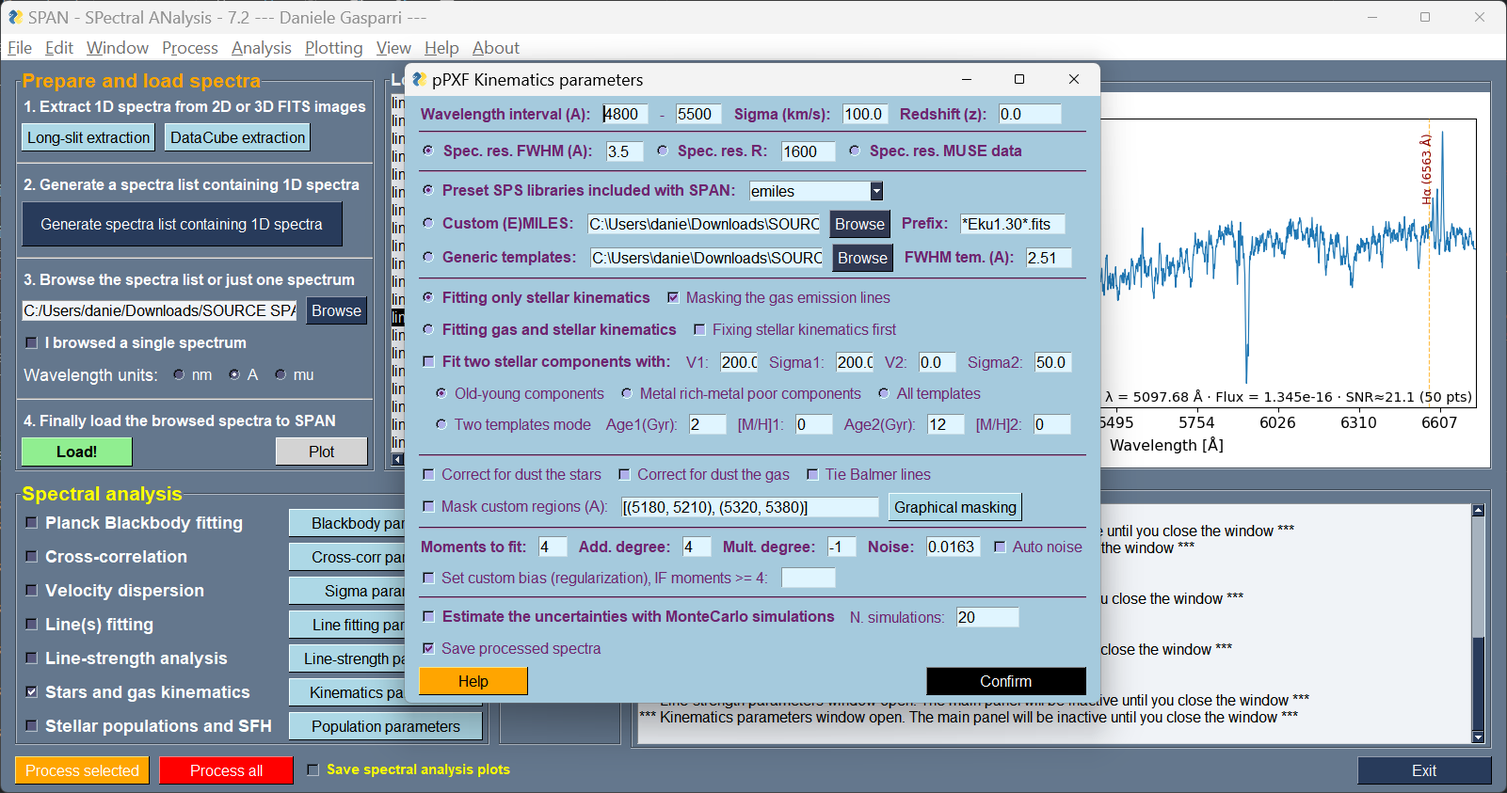
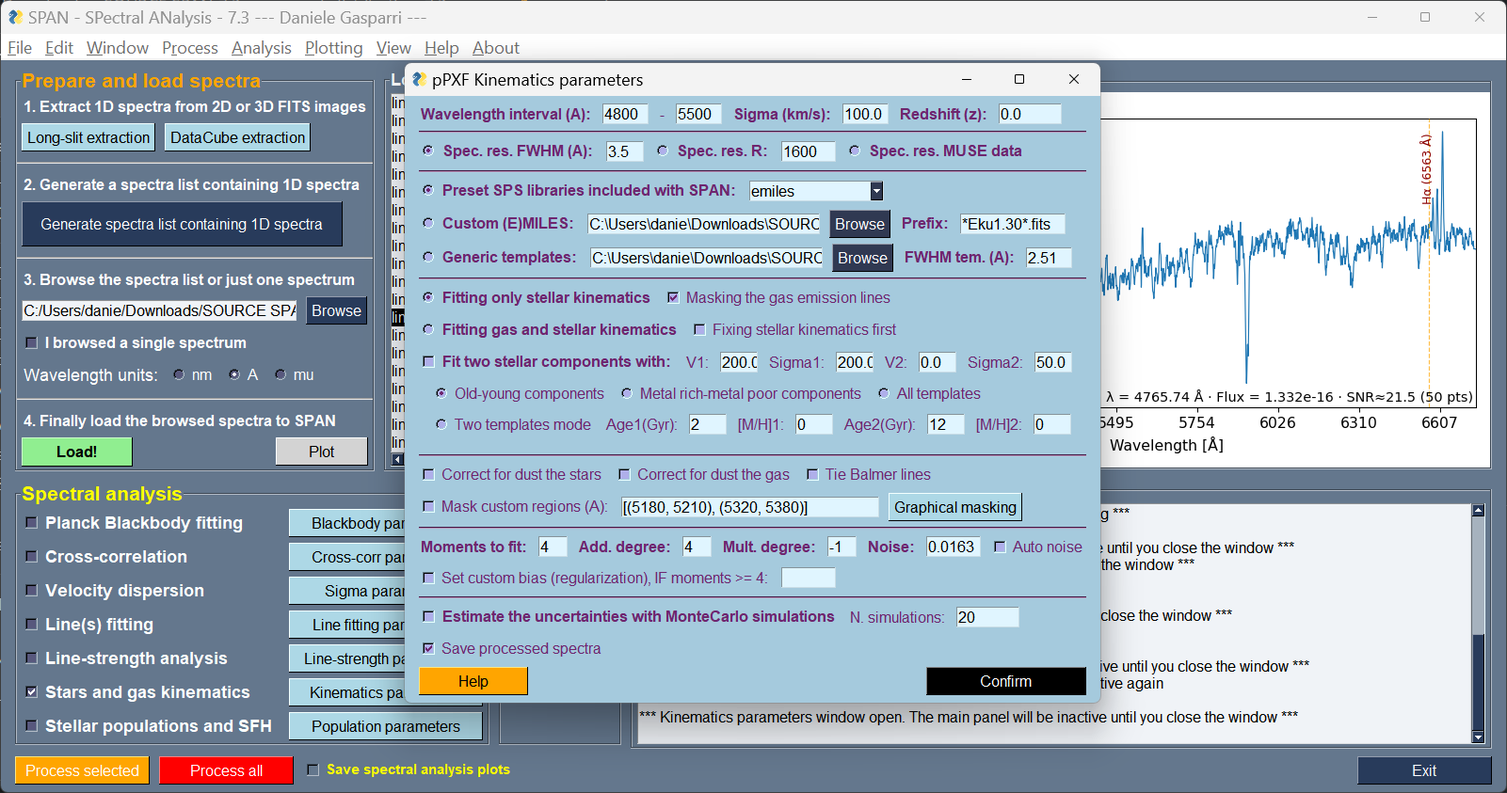
Add files via upload

diff --git a/docs/stellar_populations_and_SFH.md b/docs/stellar_populations_and_SFH.md
@@ -1,7 +1,7 @@
-SPAN: SPectral ANalysis software V7.2
-Daniele Gasparri, November 2025
+SPAN: SPectral ANalysis software V7.3
+Daniele Gasparri, December 2025
 
-# Stellar populations and SFH #
+# Stellar populations and SFH
 
 ![Stellar populations](img/stellar_populations.png)
 *Stellar populations and SFH parameters*
@@ -21,7 +21,7 @@ The full spectral fitting method requires spectra with an acceptable Signal-to-N
 The default settings offer a good starting point for most local galaxy spectra and common spectrographs. To perform an initial fit, simply enter the redshift of the spectrum. For fine-tuning, adjust the parameters based on your specific dataset.
 
 
-## Parameter Overview ##
+## Parameter Overview
 The parameters are grouped into six sections, separated by horizontal dividers. Below is a brief description of each:
 
 
@@ -53,6 +53,8 @@ Recommended workflow for finding the best parameters:
 - If uncertain, use "Auto Noise" option, which performs an initial unregularized fit to determine the optimal noise level.
 - For small spectral ranges (<1000 A) and limited templates, "Auto Noise and Regul. error" can be used to optimize both parameters. A good starting point for S/N = 50 is setting "Fraction of Dchi2 to reach" to 0.20.
 
+**IMPORTANT:** The regularization factor here is expressed as "Regul. error", following the convention of pPXF, where "Regul. error" = 1/regularization. Example: If you want to apply a regularization of 10, then "Regul. error" = 1/10 = 0.1. **TIP:** With good S/N spectra (100) a "Regul. error" = 0.1 is usually a good choice, following what stated, for example, by @bittner2020.
+
 **Polynomial Adjustments**:  
 Additive Degree: Leave disabled (-1) for reliable results, since they may change the absorption line profiles.
 Multiplicative Degree: Adjust based on spectral range (about 1 degree per 100 A).
@@ -63,10 +65,10 @@ Example: For 4800-5500 A, set Mult. degree = 7.
 Choose the SSP model library for fitting:
 
 - E-MILES, Galaxev, FSPS (pPXF defaults, they are a subsample of the respective libraries).
-- X-shooter Spectral Library. A full sample in the optical range with Salpeter IMF and Parsec/Colibri isochrones. They have a resolving power of R = 10,000 and are better suited for medium to high resolutio galaxy spectra.
+- X-shooter Spectral Library. A full sample in the optical range with Salpeter IMF and Parsec/Colibri isochrones. They have a resolving power of R = 10,000 and are better suited for medium to high resolution galaxy spectra.
 - sMILES Library (Knowles et al., 2023). Full sample in the optical window with 4 alpha/Fe values and Salpeter IMF. They are useful to extract also the alpha/Fe values besides age and metallicity. 
 
-**Warning** If your spectra have much higher resolution than the templates, apply the "Degrade Resolution" task in the Spectra manipulation panel before fitting may improve the results.
+**TIP** If your spectra have much higher resolution than the templates, apply the "Degrade Resolution" task in the Spectra manipulation panel before fitting may improve the results.
 
 
 **Template Handling:**  
@@ -89,7 +91,7 @@ For highly star-forming galaxies, consider FSPS (Conroy et al., 2010) or other t
 - You can mask out the emission Lines. In this case, you should select the "Fitting without gas" mode (see Section 2).
 - Custom masking is available and can be added also to the automatic masking of the emission lines. There are two custom masking options available: 
     1. Manual masking, by inserting the wavelength interval(s) to be masked, separated by commas and parenthesis in the text box. If invalid values are inserted, SPAN will warn you.
-    2. Graphical masking mode, activated by pressing the "Graphical masking" button. In this mode, an interactive Matplotlib window will open displaying the spectrum selected. You can then mask custom portion directly on the spectrum by ctrl+left click and drag. You can deselect the masked region by ctrl+right click and drag. On touchscreen devices (i.e. Android systems), masking and unmasking modes are activated by a tap on the screen and the relative selection is done by tapping and dragging on the spectrum. When graphical masking in done, you can close the Matplotlib window and the text box on the left will update with the new ranges selected.
+    2. Graphical masking mode, activated by pressing the "Graphical masking" button. In this mode, an interactive Matplotlib window will open displaying the spectrum selected. You can then mask custom portion directly on the spectrum by ctrl+left click and drag. You can deselect the masked region by ctrl+right click and drag. On touchscreen devices (i.e. Android systems), masking and unmasking modes are activated by a tap on the screen and the relative selection is done by tapping and dragging on the spectrum. When graphical masking is done, you can close the Matplotlib window and the text box on the left will update with the new ranges selected.
 
 **Age and Metallicity Ranges:**  
 Limit the maximum template age and metallicity based on the galaxy's cosmic age. For high-redshift galaxies, reducing the upper age limit is strongly recommended. Example: we are analyzing a galaxy located at z = 1.20, corresponding to an epoch when the Universe was about 5 Gyr old. You can move the maximum age slider to 5 Gyr to consider only SSP younger than this value for the fit. 
@@ -105,13 +107,13 @@ You can select the model grids and interpolation mode in the same way as in the 
 If your spectra have a significantly different resolution compared to the SSP templates used in pPXF, it is recommended to activate the option "Convolve templates to galaxy resolution". This ensures a more accurate estimate of the velocity dispersion during the fit, which is required to properly correct the Lick/IDS indices for spectral broadening.
 
 
-## Final Notes ##
+## Final Notes
 By default, templates are V-band normalized (5070-5950 A), meaning age, metallicity, and SFH are V luminosity-weighted.
 Using pPXF's .flux attribute, SPAN derives mass-weighted results from the same fit.
 Best regularization differs for mass-weighted vs. luminosity-weighted results. If mass results are the priority, fine-tune the "Regul. error" accordingly.
 
 
-## Outputs ##
+## Outputs
 Every fit generates three plots both in the **"Process selected** and **Process all"** mode:
 
 - Fitted Spectrum

diff --git a/docs/stars_and_gas_kinematics.md b/docs/stars_and_gas_kinematics.md
@@ -1,7 +1,7 @@
-SPAN: SPectral ANalysis software V7.2
-Daniele Gasparri, November 2025
+SPAN: SPectral ANalysis software V7.3
+Daniele Gasparri, December 2025
 
-# Stars and gas kinematics #
+# Stars and gas kinematics
 
 ![Kinematics](img/kinematics.png)
 *Stars and gas kinematics parameters*
@@ -15,7 +15,7 @@ The default parameters in this window offer a solid starting point for typical g
 Fine-tuning the fit requires adjusting specific parameters. 
 
 
-## Parameter Overview ##
+## Parameter Overview
 The parameters are grouped into seven sections, separated by horizontal dividers. Below is a brief description of each:
 
 ### First Section: Basic Parameters
@@ -41,13 +41,13 @@ Here you can select the SSP Model Library to use for the fit. The available pre-
 	3. FSPS (subsample)
 	4. X-shooter Spectral Library (XSL) (complete sample with Salpeter IMF, better suited for higher resolution spectra, R = 10,000)  
 If your spectra have a higher resolution than the templates, you should degrade them to match the template resolution using the "Degrade Resolution" tool in the Spectra manipulation panel.
-You can use any kind of EMILES templates or generic ones. The generic templates should have the wavelength scale in linear units and Angstrom. WARNING: Two stellar component fit is not available with a generic template set option (see next section). 
+You can use any kind of EMILES templates or generic ones. The generic templates should have the wavelength scale in linear units and Angstrom. **WARNING:** Two stellar component fit is not available with a generic template set option (see next section). 
 
 
 ### Fourth Section: Which component to fit
 
-1. "Fitting only stellar kinematics": Considering only the stellar component. To prevent gas emission lines in the optical, the option "Mask emission lines is activated by default". If you are fitting the optical window and are absolutely sure to not have emission (usually in HBeta and HAlpha) you can disable this option. 
-2. "Gas and Stars Kinematics": Considers both stellar and gaseous emission lines. The gas components are divided into three families: Balmer lines, forbidden lines, other lines. SPAN will automatically fit all the components found in the spectral range given, using a modified version of the line emission template provided by pPXF and embedded in the "spectral_analysis.py" module in the "span_functions" folder. By default, stars and gas kinematics are calculated together with one fit. However, often is necessary to fix the stellar kinematics to perform a more accurate gas fit. The option "Fixing stellar kinematics first" will perform a first fit only for the stellar components and will use the kinematics moments derived to fix them in the subsequent fit for the gas component.
+1. "Fitting only stellar kinematics": Considering only the stellar component. To prevent gas emission lines in the optical, the option "Mask emission lines" is activated by default. If you are fitting the optical window and are absolutely sure to not have emission (usually in HBeta and HAlpha) you can disable this option. 
+2. "Gas and Stars Kinematics": Considers both stellar and gaseous emission lines. The gas components are divided into three families: Balmer lines, forbidden lines, other lines. SPAN will automatically fit all the components found in the spectral range given, using a modified version of the line emission template provided by pPXF and embedded in the "emission_lines.py" module in the "span_functions" folder. By default, stars and gas kinematics are calculated together with one fit. However, often is necessary to fix the stellar kinematics to perform a more accurate gas fit. The option "Fixing stellar kinematics first" will perform a first fit only for the stellar components and will use the kinematics moments derived to fix them in the subsequent fit for the gas component.
 3. Two stellar component fit option: Here you can also decide to fit two stellar components by activating the "Fit two stellar components with:" checkbox. This option is important only when you have kinematic decoupled stellar components (e.g. counter-rotating discs) with high S/N (> 50). It can be activated both with stellar and gas fit option, but gas will always be fitted with one kinematic component. Dust correction is not available (both for star and gas) in this mode. You need to insert an accurate velocity and velocity dispersion guess for both the stellar components. Beside this, you can select the templates to assign to each component, based on three options: 1) Old (> 5 Gyr) and young (< 5 Gyr) components, 2) Metal rich ([M/H] > 0 ) and metal poor ([M/H] < 0) components, 3) pick two templates with fixed age and metallicity. This option has been used in some works with counter-rotating discs as such Rubino et al., 2021.
 **WARNING:** Two component fit is available only by using the pre-set template set of SPAN and with any (E)MILES template. Not available for fully custom templates, since it needs to read the information about age and metallicity of the SSPs.
 **IMPORTANT1:** For the two component fit you must always insert a GOOD guess of the velocity and velocity dispersion of the two components you think to see in your spectrum. I stress out that a good guess is necessary (according to Cappellari et al., 2023 and the pPXF documentation), so first take an accurate look at your spectrum. Some tries may be necessary to find the correct parameters and it is better to perform these tests on spectral regions not affected by gas (e.g. the CaT lines) with the option "Fit only stellar kinematics".
@@ -86,7 +86,7 @@ This option is recommended if you do not fully trust the formal uncertainties co
 Particularly useful for galaxies with very low velocity dispersion compared to the instrumental resolution (velscale). This operation is very time consuming, so try to not insert too many simulations. 
 
 
-## Outputs ##
+## Outputs
 In **"Process selected"** mode, if the option "Save processed spectra" is activated, the task produces:
 
 - bestfit model spectrum

diff --git a/docs/lines_fitting.md b/docs/lines_fitting.md
@@ -1,0 +1,51 @@
+SPAN: SPectral ANalysis software V7.3
+Daniele Gasparri, December 2025
+
+# Line(s) Fitting
+
+Line(s) fitting in SPAN measures the properties of spectral lines (centers, widths, and integrated fluxes), plus uncertainties, within a user-defined wavelength window or for the Ca II Triplet (CaT). Typical uses include: gas emission-line fluxes and kinematics proxies, stellar absorption features (e.g., CaT strength/width), and quick checks of blended features in binned spectra.
+
+SPAN offers two modes:
+
+- CaT fitting (automatic): A specialized, fully automatic fit for the Ca II triplet around 8500-8700 A, using three gaussian functions and a line with slope for the continuum. In this case, your spectra must be rest-frame corrected and/or Doppler corrected.
+- Generic lines fitting (custom): A flexible fit for one or more lines in any window you choose, with robust continuum handling and optional bootstrap errors.
+
+Both modes print a compact summary in the terminal window and can optionally save a diagnostic plot per spectrum. 
+
+## CaT mode (automatic)
+This option selects a fixed CaT window (default 8440-8720 A), builds a robust local continuum (linear baseline) and normalizes the spectrum. Therefore, it fits three Gaussians (one per triplet line) with sensible constraints and automatic component ordering to the nominal air wavelengths (8498.02, 8542.09, 8662.14 A). For every CaT line, it estimates the integrated flux in physical units (scaled back from the normalized model), computes the equivalent width (EW) from the model (flux/baseline at the line center), and line widths (sigma in A and km/s). Finally, it runs a bootstrap (N=100) by default to return 1sigma errors on centers, widths, fluxes and EWs.
+
+### Outputs
+
+For each spectrum, you get: central wavelength (A), sigma (A), sigma (km/s), flux, EW, and their errors, for each triplet line. A compact per-spectrum summary is printed to the terminal window. In 'Process all' mode, and if 'Save spectra analysis plots' is enabled, a plot with spectrum, model and residuals is saved.
+
+The 'Process all' mode writes a CaT results file (space-separated .dat) with one row per line per spectrum (columns described below).
+
+
+## Custom line(s) fitting
+
+This mode is designed for any window and any reasonable line shape (Gaussian or Lorentzian), with automatic peak detection and multi-component fitting.
+
+**Parameters you can set:**  
+
+- Window: lambda min, lambda max: The wavelength interval (in A) to consider for line(s) detection and continuum level estimation.
+- Line type: auto | emission | absorption. Which kind of line(s) you are trying to identify and fit. The option 'auto' works fine, but for better results, please specify if the lines are in emission or absorption. 
+- Peak threshold (sigma): Minimum prominence (in units of the local noise estimate) for a peak to be considered. **Tip:** start with 10-15 for strong emission lines, 3-4 for absorption lines and high (50-100) S/N spectra.
+- Components: auto | fixed (+ N). Auto: detect peaks and fit up to Max components. Fixed: fit exactly N components (1-3) placed from detected/seed peaks.
+- Max components: If 'Components' is set to 'auto', this will tell SPAN the maximum number of lines to consider from the peak detection results, starting from the strongest. You can fit at maximum 5 lines. **Tip:** keep small (2-3) in narrow windows to avoid over-fitting.
+- Profile: gauss | lorentz. Choose the analytic form for components. **Tip:** Gaussians are standard for most nebular and stellar features; Lorentzians can help with extended wings (be cautious with interpretation).
+- Resolution (FWHM): The instrumental resolution of your spectra. This parameter is optional. If provided, SPAN will report intrinsic widths for Gaussians via sigma_intr^2 = sigma_obs^2 - sigma_inst^2 (truncated at zero). If omitted, only observed sigma are reported.
+- Continuum modelling: Auto (recommended): robust, slope-aware baseline selection per sign. Flat: constant continuum (use for very small windows). Linear: straight line (good default if continuum shows a mild slope). Binned percentile: rolling/large-scale background via percentile in bins (set bin width A and percentiles). Poly2: quadratic baseline (use sparingly; risk of absorbing broad lines).
+- Additional settings:
+    - Percentile (emission) (default 15): percentile used when expecting emission (lower is safer).
+    - Percentile (absorption) (default 85): percentile used for absorption (higher is safer).
+    - Bin width (default 50): bin width for the binned baseline.
+
+
+**Uncertainties**  
+
+Uncertainties estimation is optional and is carried with bootstrap simulations: enable and set N boot (e.g., 50-200). Returns errors on line centers, widths, and fluxes. If bootstrap is off, asymptotic (covariance-based) errors are returned when reliable.
+
+### Outputs
+
+For each fitted component, SPAN returns: Center (A) with error, width sigma (A) and sigma (km/s) with errors, Flux (integrated, physical units) with error, derived from the normalized model and local baseline scale.

diff --git a/docs/manual.md b/docs/manual.md
@@ -1,5 +1,5 @@
-SPAN: SPectral ANalysis software V7.2
-Daniele Gasparri, November 2025
+SPAN: SPectral ANalysis software V7.3
+Daniele Gasparri, December 2025
 
 # SPAN user manual
 
@@ -352,8 +352,8 @@ Here is a description of any task:
 
 3. **Spectral analysis:**  
    
-   - Blackbody fitting = performs a fit of the spectrum with Planck's blackbody equation and gives the temperature estimation. It works with any type of spectra but it performs better for stellar spectra, with wide (at least 5000 A) wavelength range;
-     b)  Cross-correlation = performs a cross-correlation of the spectra with any template. You can smooth the template to a velocity dispersion value in order to improve the cross-correlation and should identify a narrow region of the spectrum to be cross-correlated (tip: the Calcium triplet lines are the best features in the NIR);
+   - Blackbody fitting = performs a fit of the spectrum with Planck's blackbody equation and gives the color temperature estimation. It works with any type of spectra but it performs better for stellar spectra, with wide (at least 5000 A) wavelength range;
+   - Cross-correlation = performs a cross-correlation of the spectra with any template. You can smooth the template to a velocity dispersion value in order to improve the cross-correlation and should identify a narrow region of the spectrum to be cross-correlated (tip: the Calcium triplet lines are the best features in the NIR);
    - Velocity dispersion = performs the measurement of the velocity dispersion of the spectra with a rough (but fats) fit it with any template. Some pre-loaded bands in the visible and NIR are shown but you can input any band. The routine succeeds with strong features (the CaT is the best). It is a little rough but very fast and gives reasonably accurate results;
    - Line-strength analysis = performs the equivalent width measurement of the spectra, with a single index, with a list of indices or with the Lick/IDS system. The results are provided in Angstrom. MonteCarlo simulations are run for the uncertainties estimation. The calculation of the Lick/IDS indices can be personalized in many ways: you can correct for the emission, for the velocity dispersion and the recession velocity. You can also perform a linear interpolation with the SSP models of Thomas et al. 2010, Xshooter, MILES and sMILES to retrieve the age, metallicity and alpha-enhancement (not available for the Xshooter models) of the stellar populations via linear interpolation or with machine-learning pre-trained models (Gaussian Process Regression). From the "Line-strength parameters" window, it is possible also to perform the "Calculate velocity dispersion coefficients" task. This task broadens a sample of SSP spectra up to 400 km/s and calculates the deviation of the equivalent width of the indices contained in the index file provided. It works only by pressing the "Compute!" button and creates a text file with a third order polynomial curve that fits the behavior of the broadened index (or indices). The "Correct the line-strength for velocity dispersion" task performs the correction of the equivalent widths based on the coefficients estimated with the "Calculate velocity dispersion coefficients" task. It works only by pressing the "Correct!" button and requires the raw equivalent width measurements stored in the ASCII file generated previously, with the same indices in the same order to that considered in the "Calculate velocity dispersion coefficients". The output files of the "Line-strength analysis", "Calculate velocity dispersion coefficients" and "Velocity dispersion" are ready to be used for this task, if we are considering the same spectra and indices;
    - Line(s) fitting = performs the fitting of a line in the inserted wavelength range using a combination of a Gaussian function to model the spectral line and straight line for the continuum. If "CaT lines" is selected, the task will perform an automatic fitting of the Calcium Triplet lines, assuming they have been previously corrected for redshift and/or Doppler velocity;
@@ -408,5 +408,5 @@ Please, report any bug or comment to daniele.gasparri@gmail.com
 Have fun!
 
 Daniele Gasparri  
-2025-11-02  
+2025-12-02  
 Greetings from the Atacama desert!

diff --git a/docs/index.md b/docs/index.md
@@ -1,7 +1,7 @@
 # SPAN: Spectral Analysis Software
 
 📖 **Author:** Daniele Gasparri  
-📅 **Latest Release:** November 2025  
+📅 **Latest Release:** December 2025  
 
 ![PyPI Version](https://img.shields.io/pypi/v/span-gui)
 ![Python Version](https://img.shields.io/badge/python-3.10%2B-blue)
@@ -11,14 +11,15 @@
 **SPAN is a cross-platform Python GUI software for the extraction, manipulation, and advanced analysis of 1D astronomical spectra in the optical and near-infrared (NIR) ranges, optimized for galaxy studies.**
 
 
-## What’s New in SPAN 7.2
+## What’s New in SPAN 7.3
 
-- Simplified, cleaned and better arranged the GUI layout
-- Improved memory and event handling in the Preview frame. Now the Preview does not slow down the GUI anymore after many spectra are scrolled in the listbox  
-- Fixed a bug and improved the visualization of the L mode (line finding) in the Preview. Now the lines found are shifted together with the spectrum, if redshift mode is used, and their wavelengths are updated in real time.
-- Implemented the new PowerBin algorithm of Cappellari 2025 for DataCube extraction, improving the speed by a factor of 10 with respect to the classical Voronoi tessellation. 
-- Implemented the option to save the maps generated by the "Plot maps" sub-program also in FITS format. 
-- Minor bug corrections
+- Now you can save the SPAN session or the SPAN parameters in .json files. The SPAN session is a snapshot of the current session, including local file paths and the spectra list loaded. The SPAN parameters is a snapshot of all the parameters, without local file paths. The parameter file can be also shared among different users and loaded to any version of SPAN. This will grant an easy way to reproduce the science results
+- The "Stellar populations and SFH" now automatically accepts the outputs of the "Stars and gas kinematics". Now you can use the stellar kinematics values to be fixed and/or use the emission corrected spectra generated in the "Stars and gas kinematics". This will let you apply the standard workflow for stellar populations (see GIST pipeline) which first calculates the kinematics of the spectra and fix these values to constrain the stellar population properties. 
+- The emission_lines function of pPXF, which defines the gas emission lines, is now in a separated module in the "Span functions" folder, easy to personalize following exactly the pPXF standard.
+- Updated the "Line(s) fitting" task with more robust functions and advanced GUI to perform accurate multi-lines fitting of emission and absorption lines. Now this task will provide as output also the measured flux from the fitted lines and bootstrap simulations for uncertainties estimation
+- Preset recipes for galaxy spectral analysis of MUSE data available in the "recipes" subfolder, ready to be loaded to SPAN as reference templates for spectral analysis workflow
+- Minor bug fixes of the "Stellar populations and SFH" task
+
 
 More from the version 7.X:
 
@@ -39,6 +40,8 @@ More from the version 7.X:
   - Double click on a single spectrum to open an info window with some basic data: name, wavelength range, sampling, mean/median flux, standard deviation and global S/N.
 - Markov chain Monte Carlo (MCMC) simulations mode available for stellar parameters estimated with Lick/IDS line-strength analysis, in addition to the griddata linear interpolation and the supervised machine-learning GPR.
 - Elliptical (or circular) binning mode for DataCube extraction, allowing you to extract radial spectral bins following the isophotal profiles of your source.
+- Implemented the new PowerBin algorithm of Cappellari 2025 for DataCube extraction, improving the speed by a factor of 10 with respect to the classical Voronoi tessellation. 
+- Implemented the option to save the maps generated by the "Plot maps" sub-program also in FITS format. 
 - SPAN now is also available as a standalone self-installing application for Windows systems (10 and 11), without requiring Python.
 
 ## Attribution

diff --git a/README.md b/README.md
@@ -1,7 +1,7 @@
 # SPAN: Spectral Analysis Software
 
 📖 **Author:** Daniele Gasparri  
-📅 **Latest Release:** November 2025  
+📅 **Latest Release:** December 2025  
 
 ![PyPI Version](https://img.shields.io/pypi/v/span-gui)
 ![Python Version](https://img.shields.io/badge/python-3.10%2B-blue)
@@ -14,14 +14,15 @@
 **SPAN is a cross-platform Python GUI software for the extraction, manipulation, and advanced analysis of 1D astronomical spectra in the optical and near-infrared (NIR) ranges, optimized for galaxy studies.**
 
 
-## What’s New in SPAN 7.2
+## What’s New in SPAN 7.3
 
-- Simplified, cleaned and better arranged the GUI layout.
-- Improved memory and event handling in the Preview frame. Now the Preview does not slow down the GUI anymore after many spectra are scrolled in the listbox.  
-- Fixed a bug and improved the visualization of the L mode (line finding) in the Preview. Now the lines found are shifted together with the spectrum, if redshift mode is used, and their wavelengths are updated in real time.
-- Implemented the new PowerBin algorithm of Cappellari 2025 for DataCube extraction, improving the speed by a factor of 10 with respect to the classical Voronoi tessellation. 
-- Implemented the option to save the maps generated by the "Plot maps" sub-program also in FITS format. 
-- Minor bug corrections.
+- Now you can save the SPAN session or the SPAN parameters in .json files. The SPAN session is a snapshot of the current session, including local file paths and the spectra list loaded. The SPAN parameters is a snapshot of all the parameters, without local file paths. The parameter file can be also shared among different users and loaded to any version of SPAN. This will grant an easy way to reproduce the science results
+- The "Stellar populations and SFH" now automatically accepts the outputs of the "Stars and gas kinematics". Now you can use the stellar kinematics values to be fixed and/or use the emission corrected spectra generated in the "Stars and gas kinematics". This will let you apply the standard workflow for stellar populations (see GIST pipeline) which first calculates the kinematics of the spectra and fix these values to constrain the stellar population properties. 
+- The emission_lines function of pPXF, which defines the gas emission lines, is now in a separated module in the "Span functions" folder, easy to personalize following exactly the pPXF standard.
+- Updated the "Line(s) fitting" task with more robust functions and advanced GUI to perform accurate multi-lines fitting of emission and absorption lines. Now this task will provide as output also the measured flux from the fitted lines and bootstrap simulations for uncertainties estimation
+- Preset recipes for galaxy spectral analysis of MUSE data available in the "recipes" subfolder, ready to be loaded to SPAN as reference templates for spectral analysis workflow
+- Minor bug fixes of the "Stellar populations and SFH" task
+
 
 More from the version 7.X:
 
@@ -42,6 +43,8 @@ More from the version 7.X:
   - Double click on a single spectrum to open an info window with some basic data: name, wavelength range, sampling, mean/median flux, standard deviation and global S/N.
 - Markov chain Monte Carlo (MCMC) simulations mode available for stellar parameters estimated with Lick/IDS line-strength analysis, in addition to the griddata linear interpolation and the supervised machine-learning GPR.
 - Elliptical (or circular) binning mode for DataCube extraction, allowing you to extract radial spectral bins following the isophotal profiles of your source.
+- Implemented the new PowerBin algorithm of Cappellari 2025 for DataCube extraction, improving the speed by a factor of 10 with respect to the classical Voronoi tessellation. 
+- Implemented the option to save the maps generated by the "Plot maps" sub-program also in FITS format. 
 - SPAN now is also available as a standalone self-installing application for Windows systems (10 and 11), without requiring Python.
 
 

diff --git a/docs/changelog.md b/docs/changelog.md
@@ -1,8 +1,19 @@
-SPAN: SPectral ANalysis software V7.2
-Daniele Gasparri, November 2025
+SPAN: SPectral ANalysis software V7.3
+Daniele Gasparri, December 2025
 
 
 ## Changelog
+
+**Version 7.3 (20251202):**  
+
+- Minor bug fixes for the 'Stellar populations and SFH' task: custom EMILES templates where fitting only the V band, now they can be used to fit any band covered by them. The option to fit with or without gas was not saved correctly to the parameter file.
+- Introduced the difference between the 'Save session...' and 'Save parameters...' in the File menu. The 'Save session' will save all the parameters and the program status, while the 'Save parameters' option saves only the parameters and not the path of the local files on the computer. 
+- The 'Stellar populations and SFH' task now can use the results of the 'Stars and gas kinematics' for fixing the kinematics values found and/or to use the emission corrected spectra
+- The emission_lines function that defines the gas emission lines to be passed to pPXF now is stored as a separate module called 'emission_lines.py' in the 'span_functions' folder to be easily used and personalized following the pPXF standard
+- Completely refactored the 'Line(s) fitting' task to perform science-grade analysis and error estimation with bootstrap simulations. Now it is possible to fit multiple lines across the selected wavelength rage. Also, flux measurement of the fitted components is available. 
+- Created spectral analysis recipes to be loaded to SPAN and used as templates for galaxy spectral analysis. 
+- Improved the layout and the readability of the help windows within the GUI.
+
 
 **Version 7.2 (20251102):**  
 

diff --git a/docs/spectra_manipulation.md b/docs/spectra_manipulation.md
@@ -1,5 +1,5 @@
-SPAN: SPectral ANalysis software V7.2
-Daniele Gasparri, November 2025
+SPAN: SPectral ANalysis software V7.3
+Daniele Gasparri, December 2025
 
 # Spectra manipulation panel #
 

diff --git a/docs/spectral_analysis_overview.md b/docs/spectral_analysis_overview.md
@@ -1,5 +1,5 @@
-SPAN: SPectral ANalysis software V7.2
-Daniele Gasparri, November 2025
+SPAN: SPectral ANalysis software V7.3
+Daniele Gasparri, December 2025
 
 # The Spectral analysis frame
 

diff --git a/docs/linestrength.md b/docs/linestrength.md
@@ -1,5 +1,5 @@
-SPAN: SPectral ANalysis software V7.2
-Daniele Gasparri, November 2025
+SPAN: SPectral ANalysis software V7.3
+Daniele Gasparri, December 2025
 
 # Line-strength analysis #
 

diff --git a/docs/long-slit_extraction.md b/docs/long-slit_extraction.md
@@ -1,5 +1,5 @@
-SPAN: SPectral ANalysis Software V7.2
-Daniele Gasparri, November 2025
+SPAN: SPectral ANalysis Software V7.3
+Daniele Gasparri, December 2025
 
 # Long-slit extraction #
 

diff --git a/docs/datacube_extraction.md b/docs/datacube_extraction.md
@@ -1,5 +1,5 @@
-SPAN: SPectral ANalysis software V7.2
-Daniele Gasparri, November 2025
+SPAN: SPectral ANalysis software V7.3
+Daniele Gasparri, December 2025
 
 # DataCube extraction #
 
